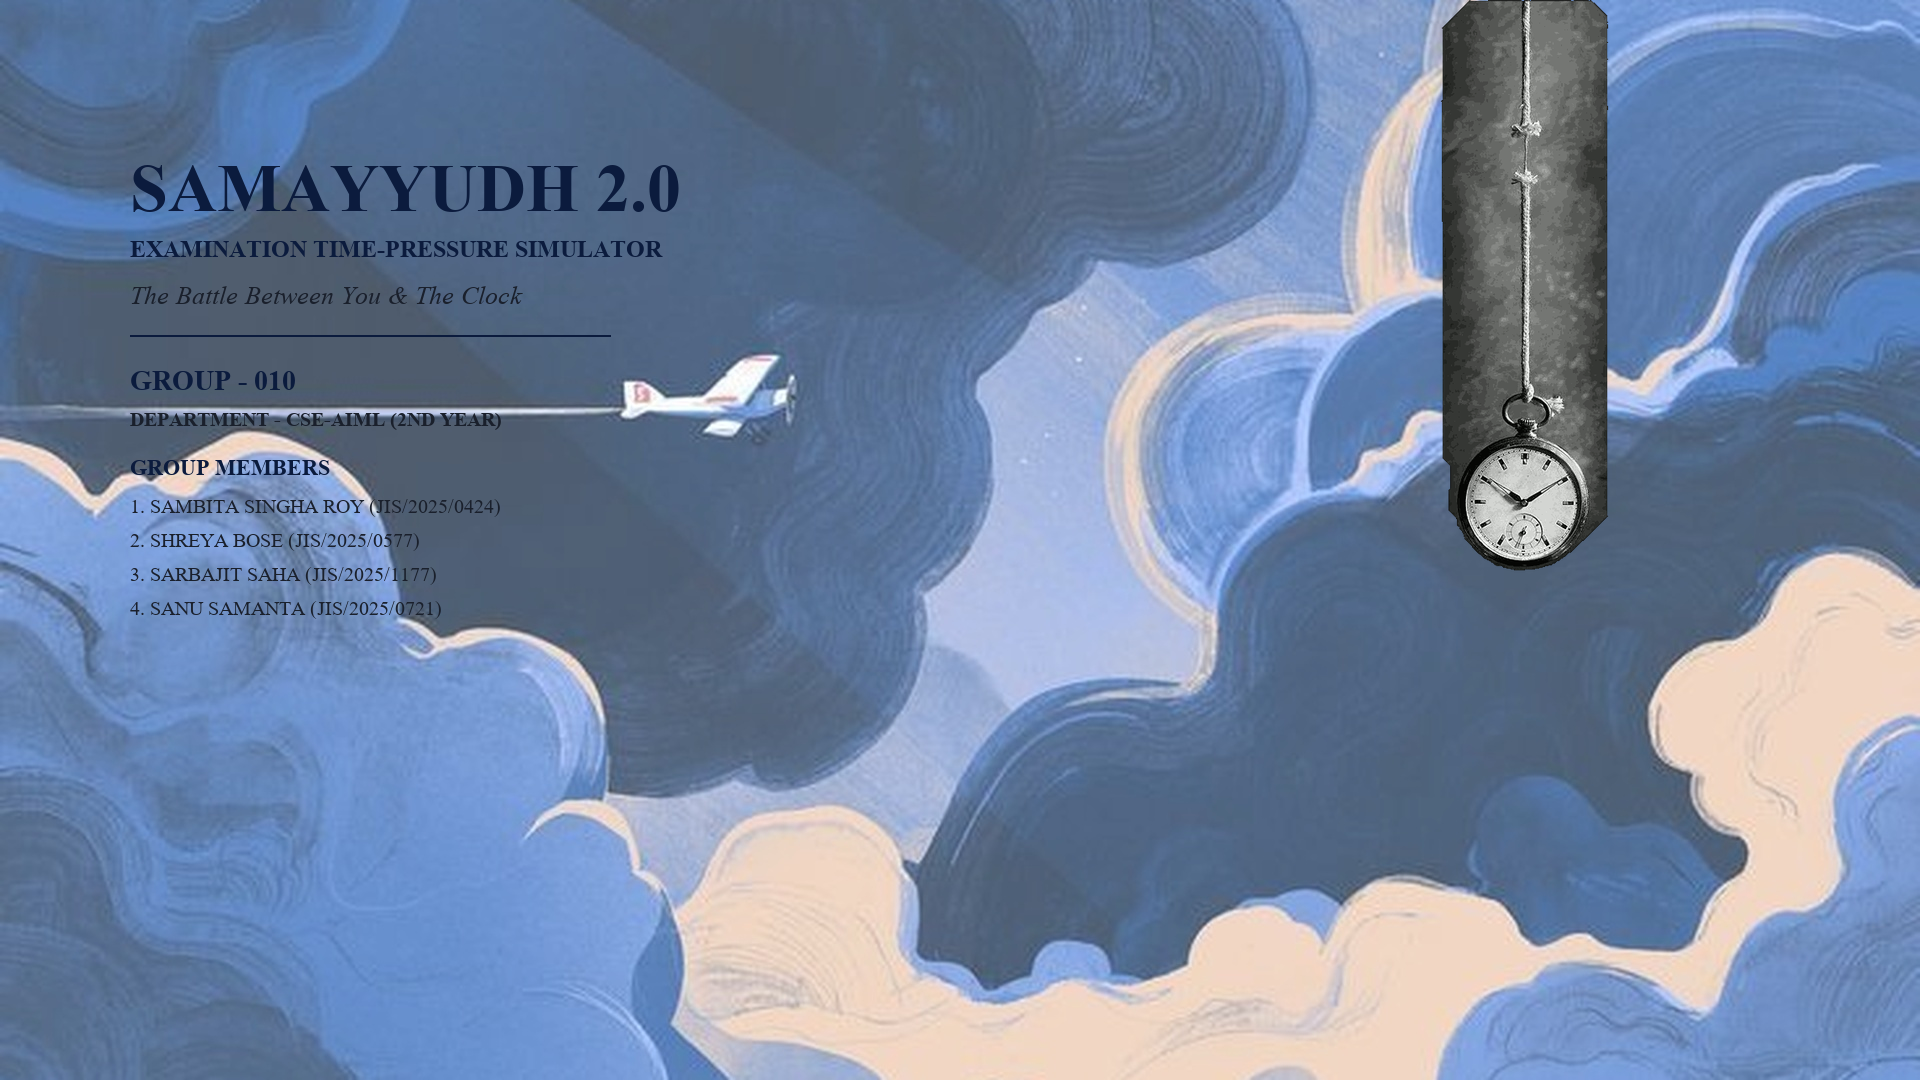
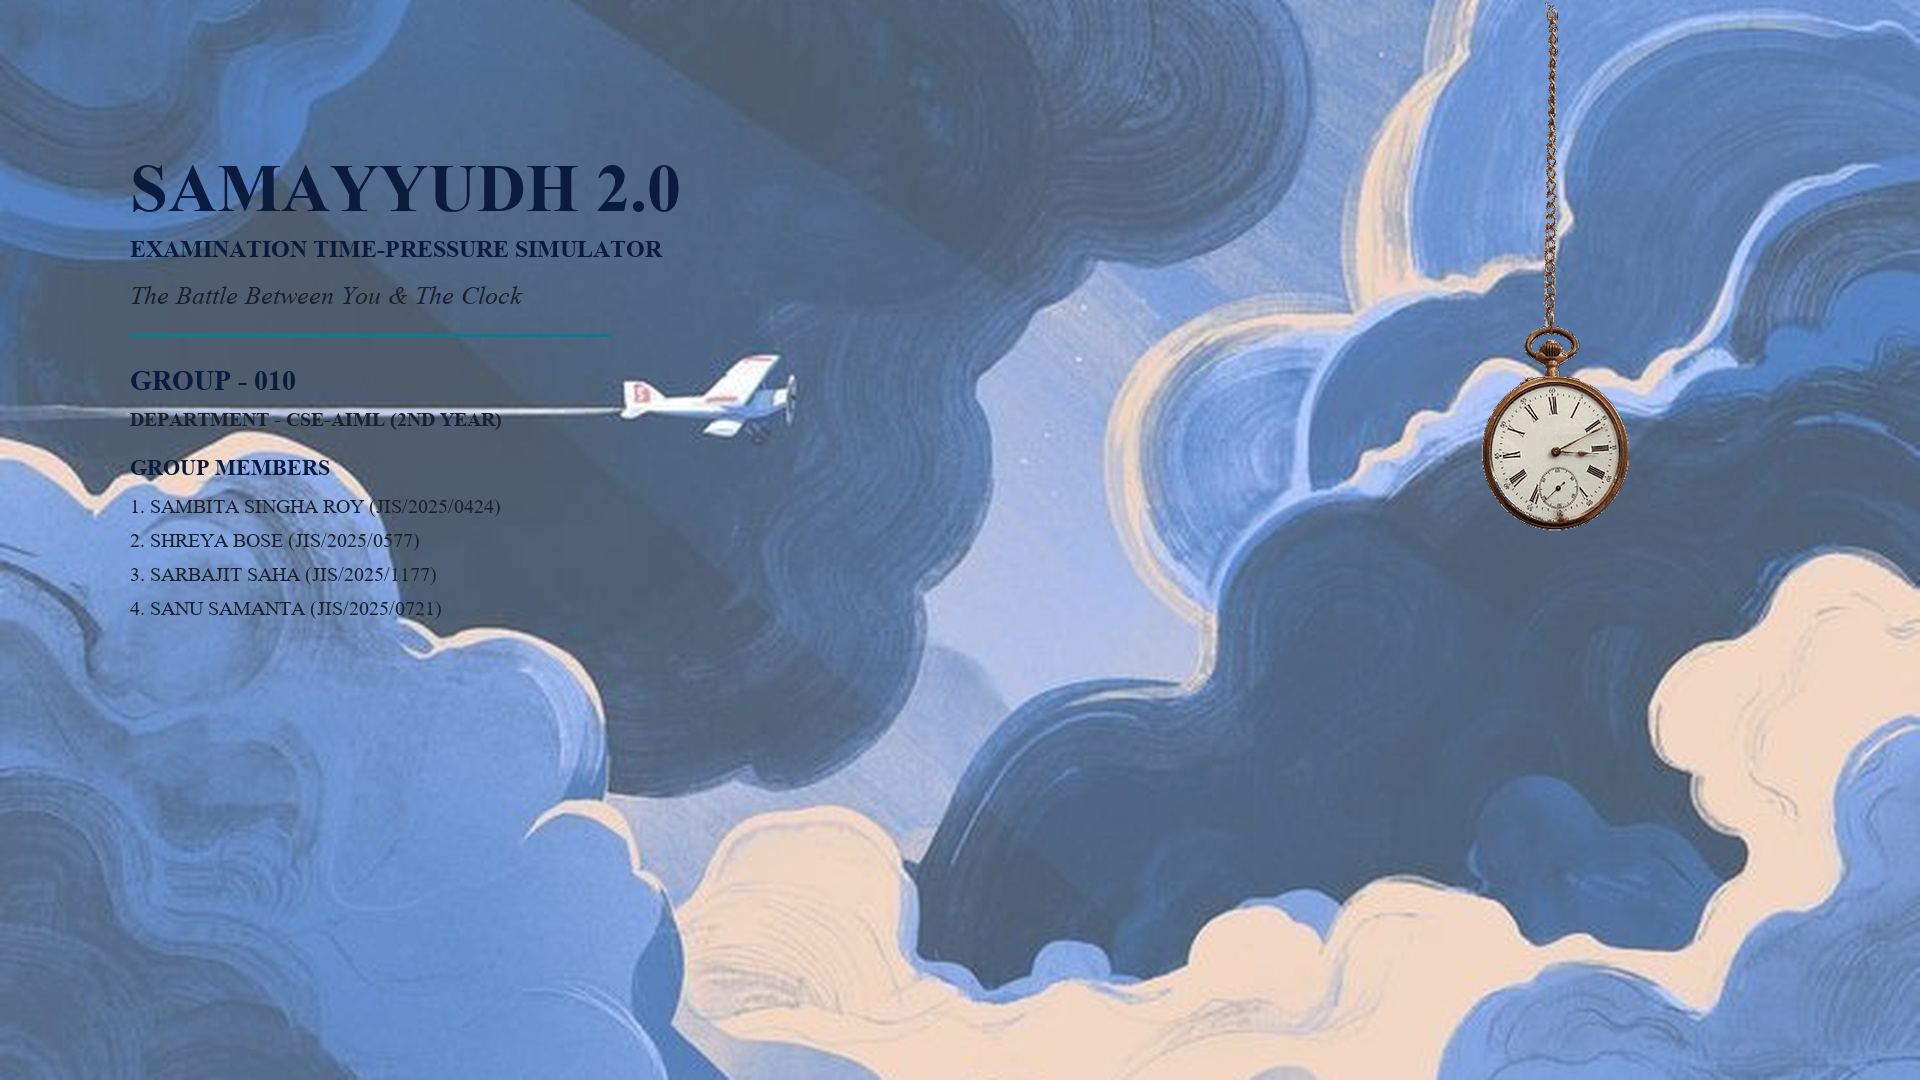
feat(presentation): replace pocket watch with clean transparent golden chain watch from uploaded reference, eliminating background bounding box

Changed region(s): [[0.75, 0.0, 0.875, 0.55]]

diff --git a/scripts/generate_template_presentation.py b/scripts/generate_template_presentation.py
@@ -50,10 +50,10 @@ def create_complete_template_presentation(output_path="SamayYudh_2.0_Business_Te
     else:
         add_solid_bg(slide1, NAVY_DARK)
 
-    # 2. Main Visual Element: Hanging Pocket Stopwatch with Cord (Animated GIF Pendulum)
+    # 2. Main Visual Element: Hanging Golden Pocket Stopwatch with Chain (Animated GIF Pendulum)
     sw_gif_path = "public/images/presentation/stopwatch_pendulum.gif"
     if os.path.exists(sw_gif_path):
-        slide1.shapes.add_picture(sw_gif_path, Inches(8.8), Inches(0), Inches(3.8), Inches(5.7))
+        slide1.shapes.add_picture(sw_gif_path, Inches(9.1), Inches(0), Inches(3.5), Inches(5.1))
 
     # Color Constants for Times New Roman Typography
     NAVY_HEAD = RGBColor(11, 27, 61)       # #0B1B3D Deep Navy
@@ -879,13 +879,21 @@ def create_complete_template_presentation(output_path="SamayYudh_2.0_Business_Te
     p.font.color.rgb = TEXT_MUTED
     p.alignment = PP_ALIGN.CENTER
 
-    try:
-        prs.save(output_path)
-        print(f"Presentation saved successfully to: {output_path}")
-    except PermissionError:
-        alt_path = "SamayYudh_2.0_Business_Template_Deck.pptx"
-        prs.save(alt_path)
-        print(f"Note: '{output_path}' was locked by another application. Saved presentation successfully to: {alt_path}")
+    saved_path = None
+    targets = [
+        "SamayYudh_2.0_Cinematic_Presentation.pptx",
+        "SamayYudh_2.0_Business_Template_Presentation.pptx",
+        "SamayYudh_2.0_Business_Template_Deck.pptx"
+    ]
+    for target in targets:
+        try:
+            prs.save(target)
+            print(f"Presentation saved successfully to: {target}")
+            saved_path = target
+            break
+        except PermissionError:
+            print(f"File {target} is locked by PowerPoint. Trying next...")
+            continue
 
 if __name__ == "__main__":
     create_complete_template_presentation()
